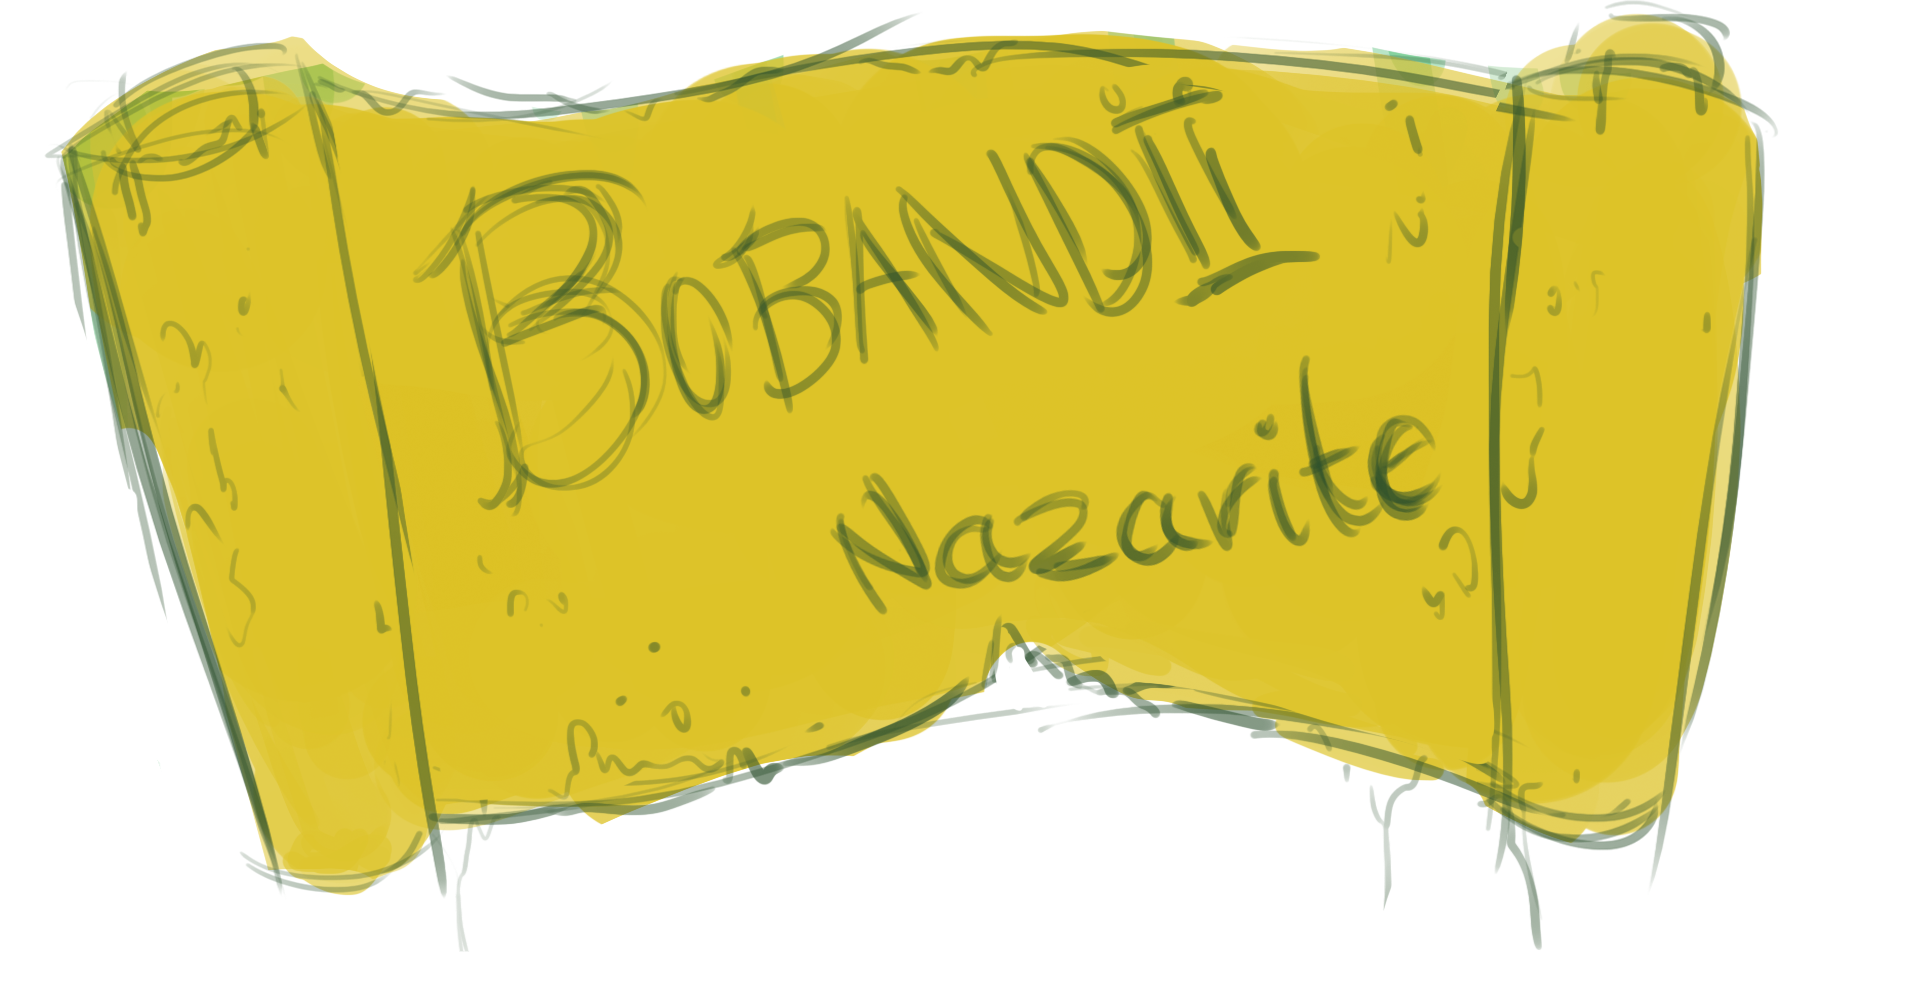
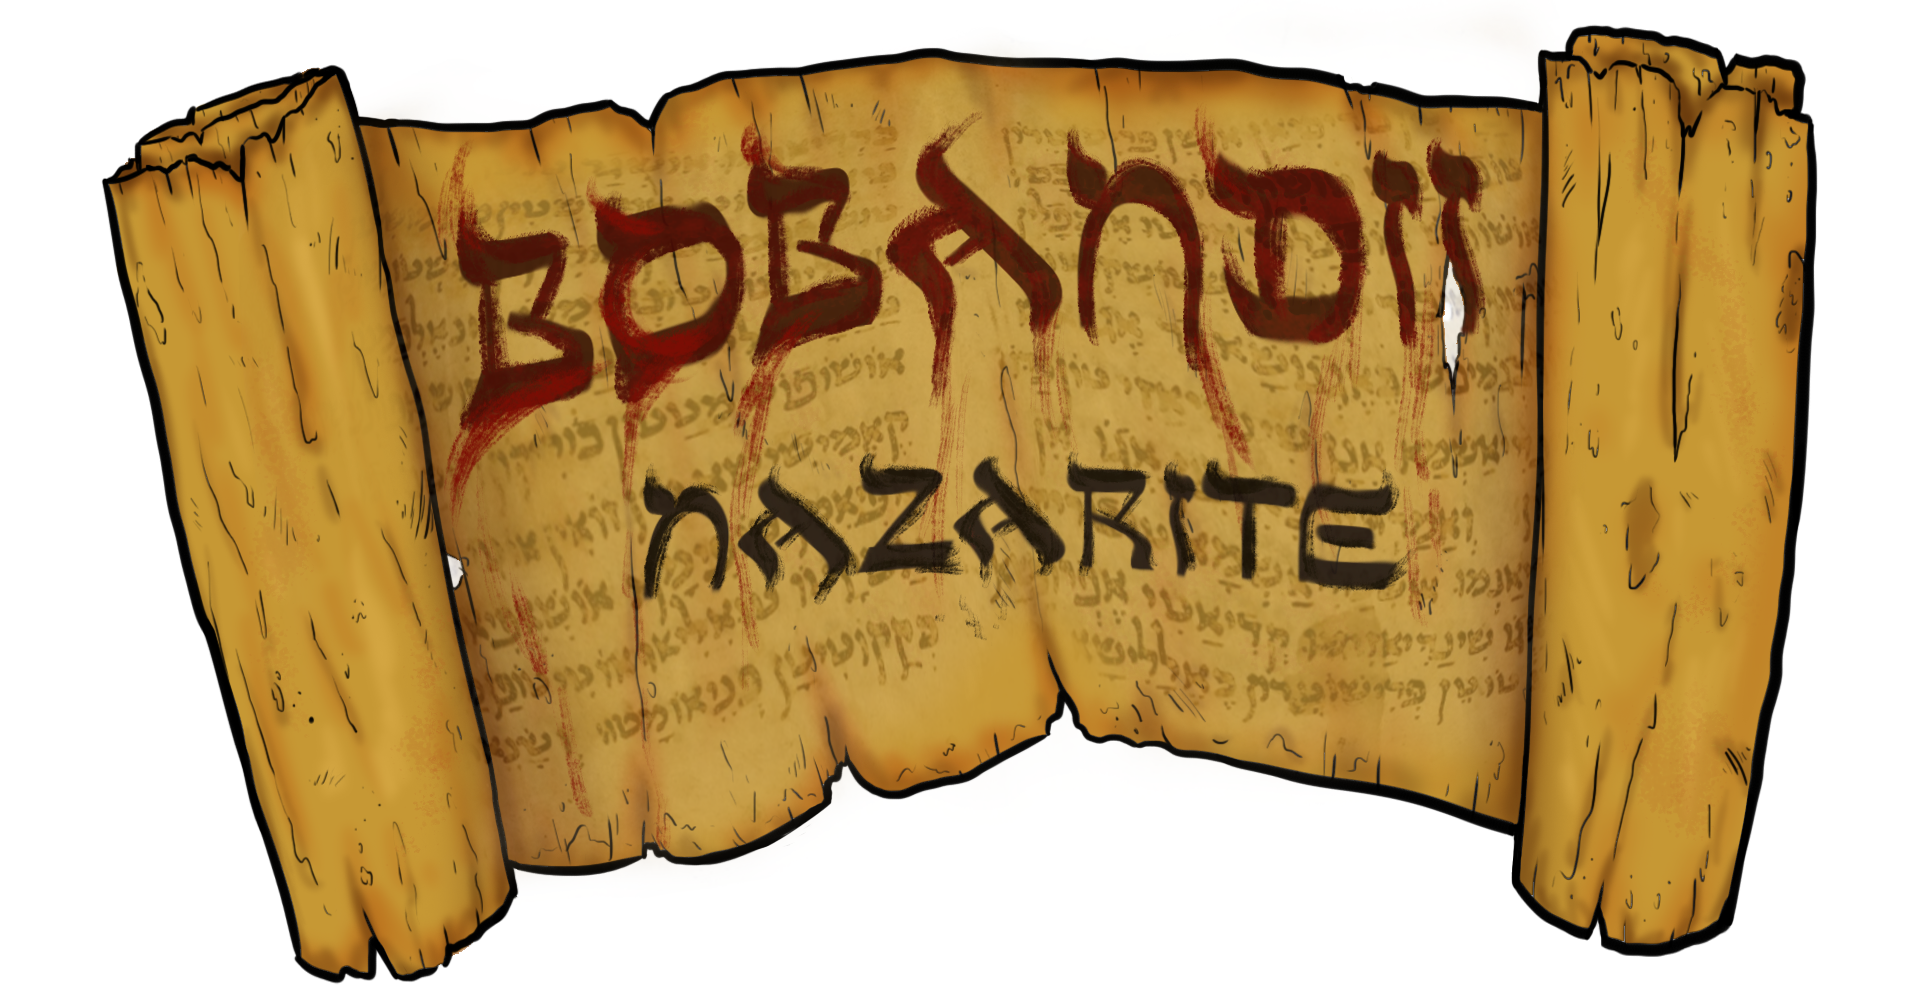
Change to new assets

diff --git a/css/style.css b/css/style.css
@@ -1,57 +1,50 @@
-/* Global styles */
-
-* {
-  margin: 0;
-  padding: 0;
+div {
+  box-sizing: border-box;
 }
 
-img {
+#wrapper {
+  position: fixed;
+  top: 0;
+  left: 0;
+  right: 0;
+  bottom: 0;
+  perspective: 2px;
+  overflow-x: hidden;
+  overflow-y: scroll;
+}
+
+#group1 {
+  position: relative;
+  transform-style: preserve-3d;
+  font-size: 20px;
+}
+
+.scroll {
+  transform: translateZ(-0.5px);
   width: 100%;
-}
-
-#background, #header, #content {
-  display: block;
-  left: 0px;
-  top: 0px;
   position: absolute;
-  width: 100%;
-}
-
-/* Layering */
-
-#background {
-  z-index: 0;
-}
-
-#content {
-  z-index: 1;
-}
-
-/* Blocks */
-
-#header {
+  top: 0;
+  padding-top: 100px;
   z-index: 2;
 }
 
-/* Individual elements */
-
-#scroll {
-  margin-top: 12%;
-  transform: translateZ(-1px) scale(0.75);
+.rocks {
+  position: absolute;
+  top: 2em;
+  width: 100%;
+  z-index: 1;
 }
 
-#story {
-  display: block;
-  margin: 0 auto;
-  transform: translateZ(-1px) scale(0.8);
-  width: 80%;
+.trees {
+  position: absolute;
+  width: 100%;
+  z-index: 4;
 }
 
-#trees {
-  margin-top: -50px;
-  transform: translateZ(3px) scale(1);
-}
-
-#rocks {
-  transform: translateZ(3px) scale(1);
+.story {
+  position: absolute;
+  top: 0;
+  transform: translateZ(-0.5px);
+  width: 100%;
+  z-index: 2;
 }

diff --git a/index.html b/index.html
@@ -5,16 +5,13 @@
     <link href="css/style.css" rel="stylesheet" type="text/css" media="screen" />
 </head>
 <body>
-  <div id="background">
-    <img src="img/rocks.png" id="rocks">
+  <div id="wrapper">
+    <div id="group1">
+        <img src="img/trees.png" class="trees">
+        <img src="img/scroll.png" class="scroll">
+        <img src="img/story.png" class="story">
+        <img src="img/rocks.png" class="rocks">
+    </div>
   </div>
-  <div id="header">
-    <img src="img/trees.png" id="trees">
-  </div>
-  <div id="content">
-    <img src="img/scroll.png" id="scroll">
-    <img src="img/story.png" id="story">
-  </div>
-  <script src="js/scroll.js"></script>
 </body>
 </html>
